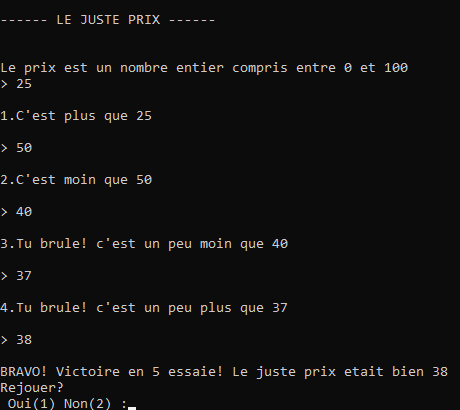
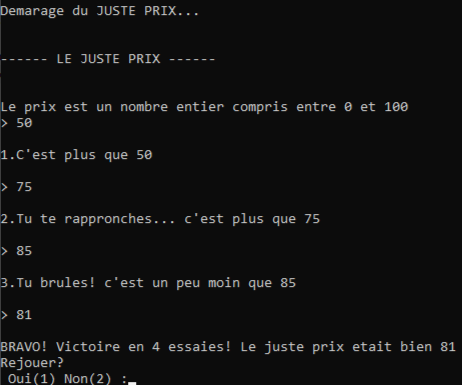
wq

diff --git a/master_mind.c b/master_mind.c
@@ -33,7 +33,7 @@ do
 
     for (int i=0; i<TAILLE_CODE; i++)
    {
-       int id_couleur = rand () % TAILLE_CODE;
+       int id_couleur = rand () % NB_COULEUR;
 
             int cmpt_presance = 0;
 //Cas ou la couleur est deja presente dans le code
@@ -53,7 +53,7 @@ do
    }
 
 //saisie utilisateur
-    printf("Trouver le code de %d couleurs\n ",TAILLE_CODE);
+    printf("\nTrouver le code de %d couleurs\n ",TAILLE_CODE);
     printf("COULEUR [ rouge(R) - bleu(B) - jaune(J) - vert(V) - orange(O) ]\n\n");
 
     tentative = 0;
@@ -70,7 +70,7 @@ do
 
         verif = 0;
         if (verifSaisie(COULEUR,saisie_ut,NB_COULEUR,TAILLE_CODE)!=0){
-              printf("\nERREUR un ou plusieurs caractere ne sont pas conforme\n\n");
+              printf("\n\t< ERREUR > un ou plusieurs caracteres ne sont pas conformes\n\n");
             verif++;
             }
         }while(verif != 0);
@@ -96,36 +96,40 @@ do
 
     if(c_bp == TAILLE_CODE)
     {
-        printf("\nBravo vouis avez trouver le code couleur\n");
-        printf("Vous etes le MASTERMIND");
+        printf("\nBravo vouis avez trouve le code couleur\n");
+        printf("Vous etes le MASTERMIND\n");
         break;
     }
     else
     {
         printf("\ntentative %d/%d\n",tentative,TENTATIVE_MAX);
-        printf("Couleur bien place : %d\n",c_bp);
-        printf("Couleur presente : %d\n\n",c_presente);
+        printf("Couleurs bien placees : %d\n",c_bp);
+        printf("Couleurs presentes : %d\n\n",c_presente);
+    }
+
+    //Message defaite
+    if(tentative == TENTATIVE_MAX)
+    {
+        printf("\nPERDU ! Le code couleur etait: ");
+        afficherCode(code,TAILLE_CODE);
     }
 
 
     }while(tentative < TENTATIVE_MAX);
 
-//Message defaite
-    if(tentative == TENTATIVE_MAX)
-    {
-        printf("\nPERDU ! Le code couleur etait: ");
-    }
-        afficherCode(code,TAILLE_CODE);
+
 
 
    //rejouer ?
         do
         {
-        printf("Rejouer?\n Oui(1)\tNon(2) :");
+        printf("\nRejouer?\n Oui(1)\tNon(2) :");
         scanf("%d",&rejouer);
 
-        if(rejouer != 2 && rejouer != 1)
-        printf("\nERREUR saisie\n");
+        if(rejouer != 2 && rejouer != 1){
+            printf("\nERREUR saisie\n");
+        }
+
         }while(rejouer != 2 && rejouer != 1);
 
 

diff --git a/juste_prix.c b/juste_prix.c
@@ -50,7 +50,7 @@ do
              if((distance) > -5)
                 printf("\n%d.Tu brule! c'est un peu plus que %d\n\n", tentative,nb_ut);
             else if((distance) >= -10)
-                printf("\n%d.Tu te rappronche... c'est plus que %d\n\n", tentative,nb_ut);
+                printf("\n%d.Tu te rappronches... c'est plus que %d\n\n", tentative,nb_ut);
             else
                 printf("\n%d.C'est plus que %d\n\n", tentative,nb_ut);
         }
@@ -59,9 +59,9 @@ do
         //Cas -
         if (nb_ut > nb_aleatoire){
             if((distance) < 5)
-                printf("\n%d.Tu brule! c'est un peu moin que %d\n\n", tentative,nb_ut);
+                printf("\n%d.Tu brules! c'est un peu moin que %d\n\n", tentative,nb_ut);
             else if(distance <= 10)
-                printf("\n%d.Tu te rappronche... c'est moin que %d\n\n", tentative,nb_ut);
+                printf("\n%d.Tu te rappronches... c'est moin que %d\n\n", tentative,nb_ut);
             else
                 printf("\n%d.C'est moin que %d\n\n", tentative,nb_ut);
         }
@@ -70,7 +70,7 @@ do
         //Cas victoire
         if (nb_ut == nb_aleatoire)
            {
-            printf("\nBRAVO! Victoire en %d essaie! Le juste prix etait bien %d\n",tentative,nb_aleatoire);
+            printf("\nBRAVO! Victoire en %d essaies! Le juste prix etait bien %d\n",tentative,nb_aleatoire);
             break;
            }
 

diff --git a/pendu.c b/pendu.c
@@ -15,7 +15,7 @@ void pendu()
     int pv, lt_trv;
 
     // Instructions
-    printf("Instructions => Le mot ne comporte pas d'espace, et est en MAJUSCULE\n");
+    printf("Instructions => Le mot ne comporte pas d'espaces, et est en MAJUSCULE\n");
 
     // Boucle de jeu
     do
@@ -33,6 +33,7 @@ void pendu()
         {
             // Saisie utilisateur
             printf("\nProposez une lettre ou un mot > ");
+
             fgets(saisie_ut, sizeof(saisie_ut), stdin);
             saisie_ut[strcspn(saisie_ut, "\n")] = '\0';  // Retirer le \n
 

diff --git a/morpion.c b/morpion.c
@@ -60,7 +60,7 @@ void saisieUtilisateur(char grille[][3], char joueur, int* p_coord_x, int* p_coo
 {
     do
     {
-        printf("\nJoueur %c ou voullez-vous jouer?\n", joueur);
+        printf("\n< Joueur %c > Ou voullez-vous jouer?\n", joueur);
 
         fflush(stdin);
         printf("en x:");
